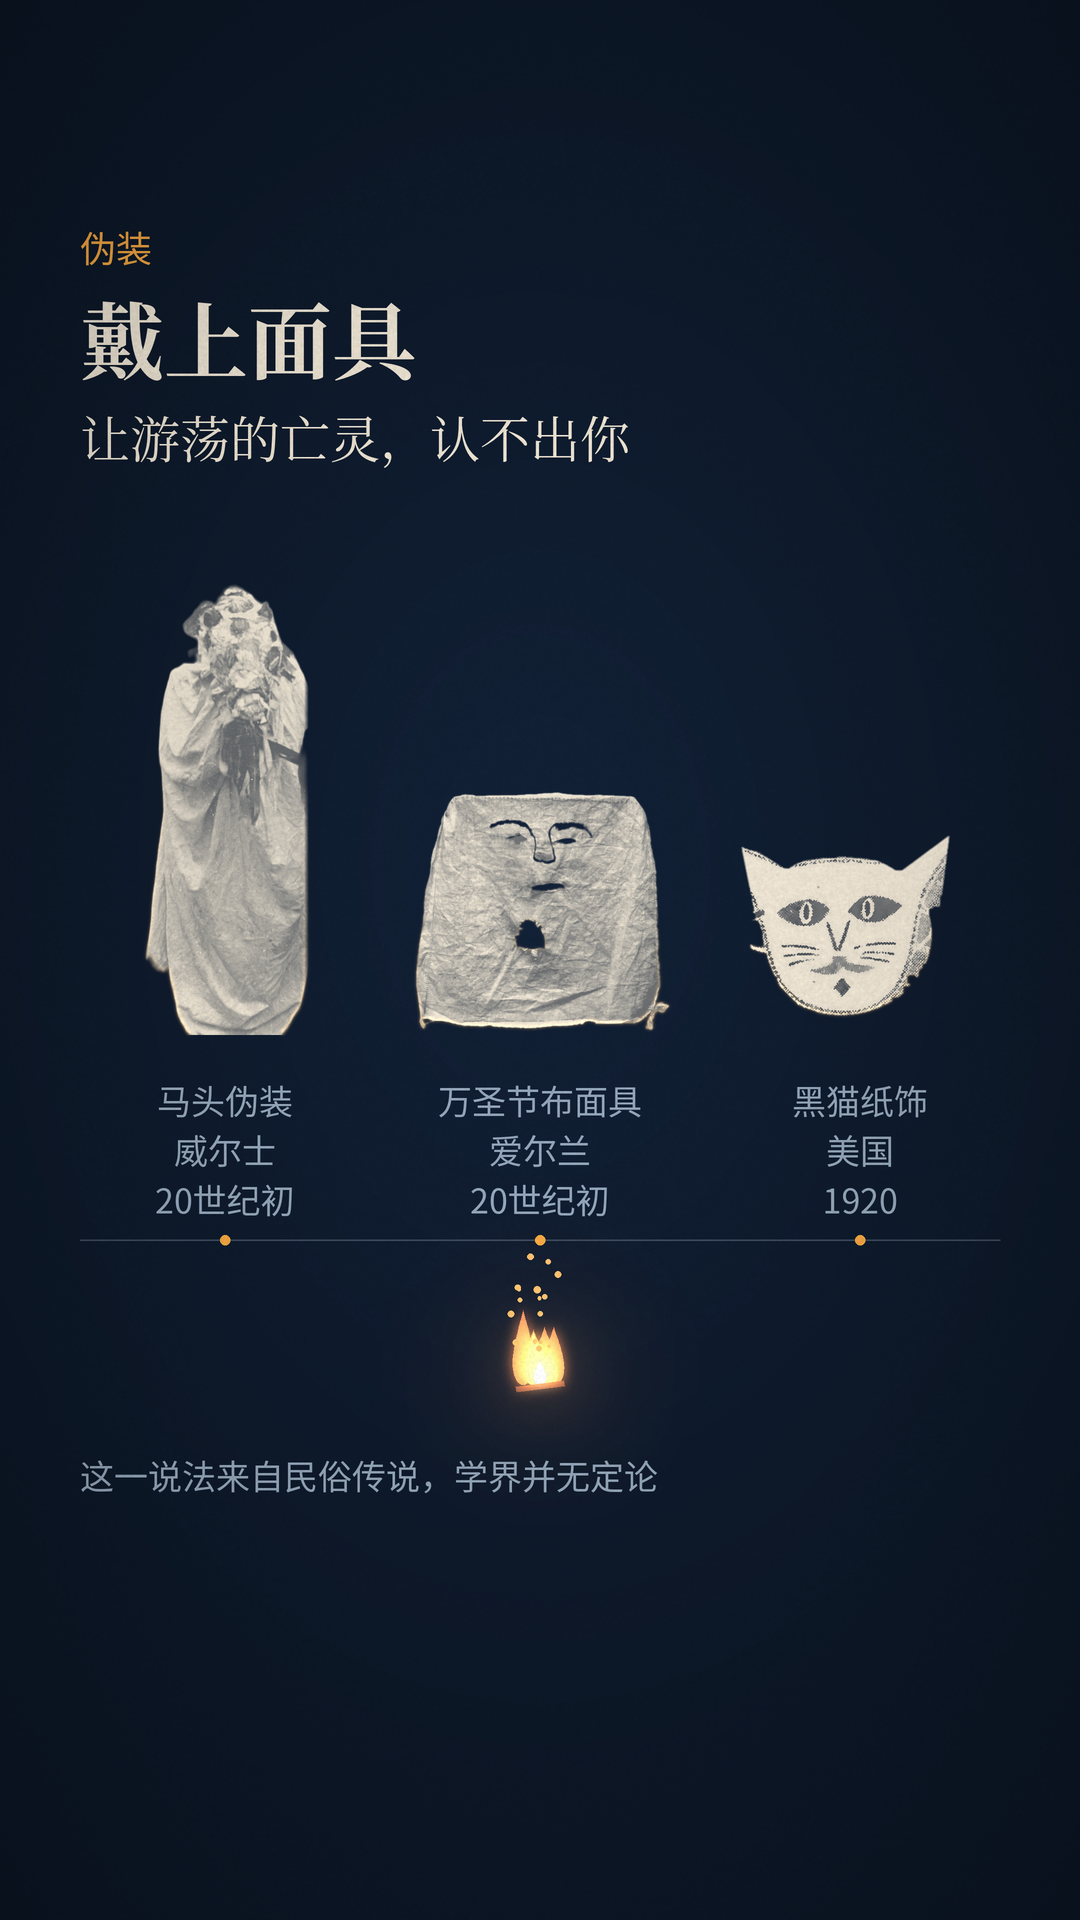
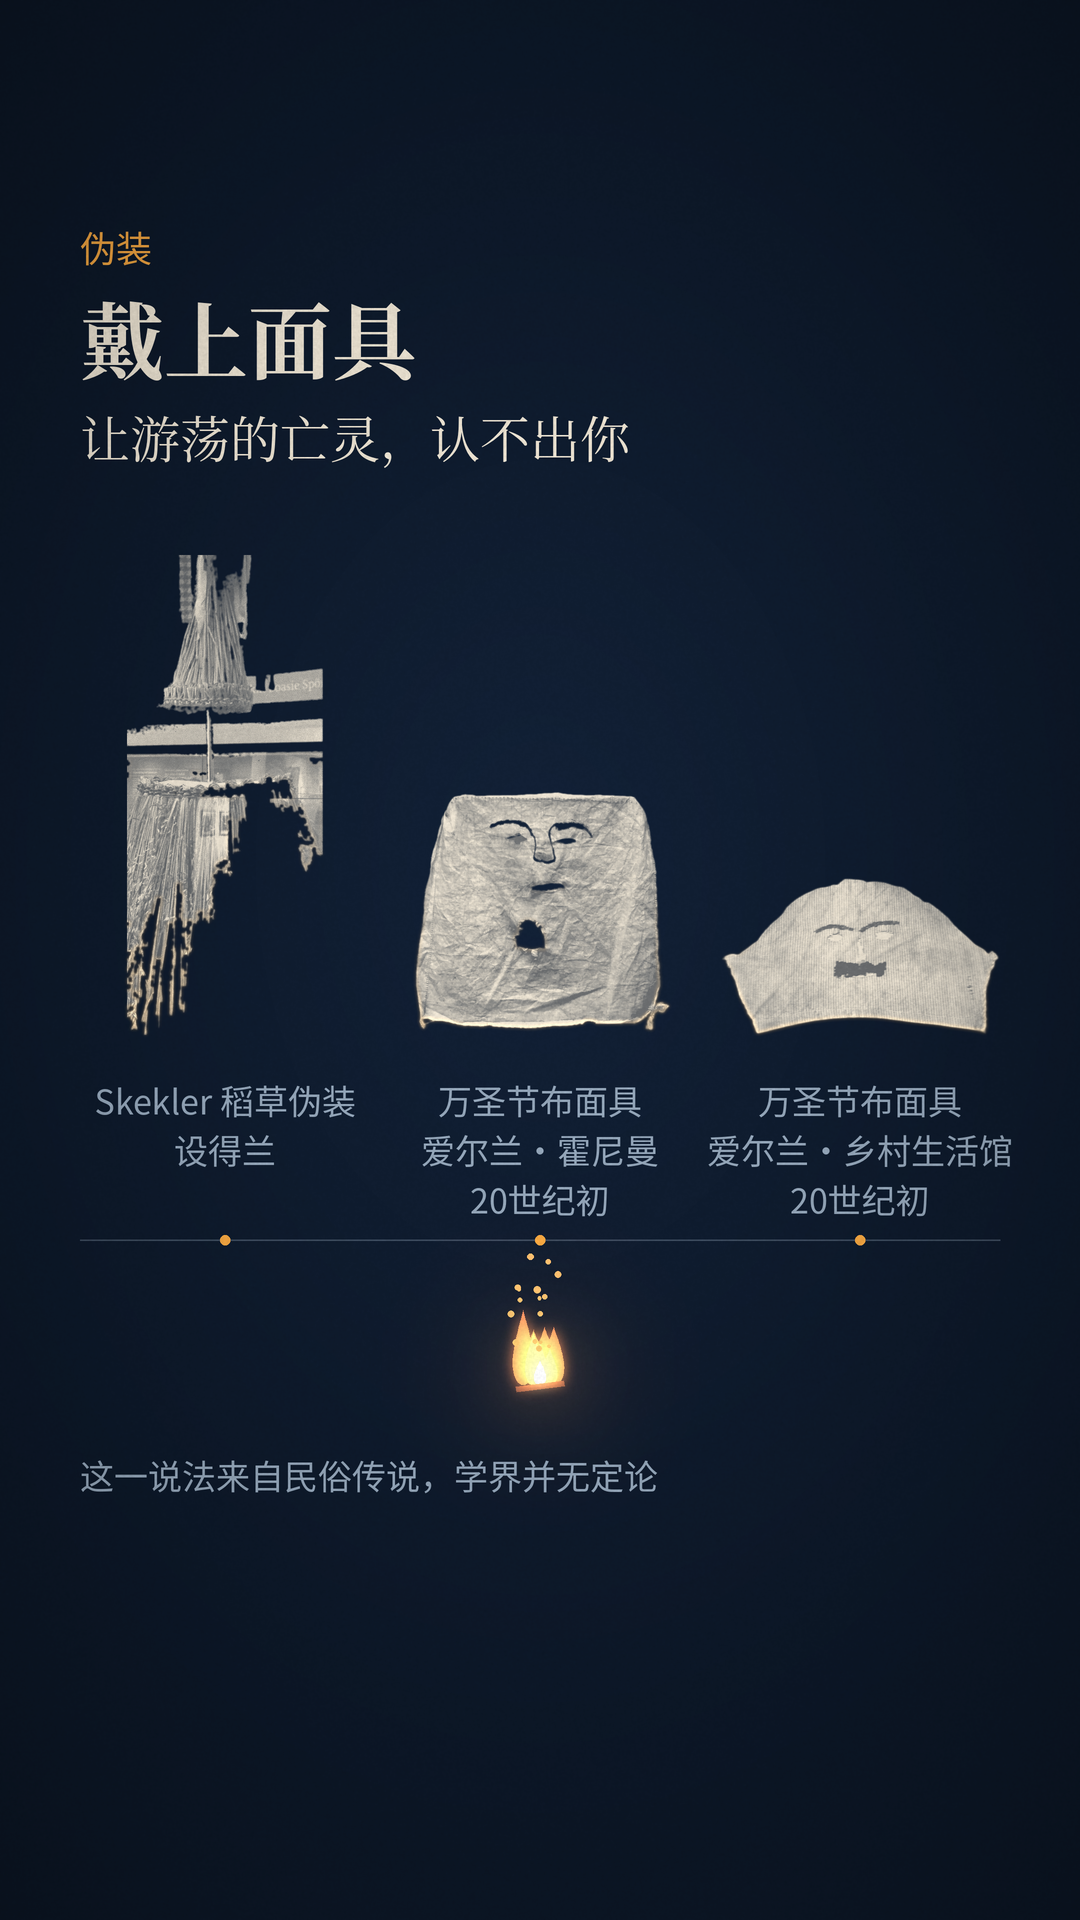
halloween-history shot03 v0.3: on-topic Skekler + two Irish Halloween masks (all BY-SA credited)

Changed region(s): [[0.0917, 0.2812, 0.3361, 0.6562], [0.6417, 0.4375, 0.9472, 0.6562], [0.3972, 0.5938, 0.6111, 0.625]]

diff --git a/projects/halloween-history/render/render_stills.py b/projects/halloween-history/render/render_stills.py
@@ -127,10 +127,10 @@ def mask_cut(fr, name, cx, bottom, width=None, height=None, invert=False, lo=0.5
     light_from(fr, rim_light(a, width=3, strength=0.55), x0, y0, blur=1.5)
 
 
-MASKS03 = [  # (cutout, cx, size kw, invert, tone floor, label)
-    ('mari_lwyd.png', 225, dict(height=470), False, 0.40, '马头伪装\n威尔士\n20世纪初'),
-    ('irish_mask.png', 540, dict(width=270), False, 0.42, '万圣节布面具\n爱尔兰\n20世纪初'),
-    ('dennison_cat.png', 860, dict(width=250), True, 0.30, '黑猫纸饰\n美国\n1920'),
+MASKS03 = [  # (cutout, cx, size kw, invert, tone floor, label) — all Halloween/Samhain-season guising
+    ('skekler.png', 225, dict(height=480), False, 0.38, 'Skekler 稻草伪装\n设得兰'),
+    ('irish_mask.png', 540, dict(width=270), False, 0.42, '万圣节布面具\n爱尔兰·霍尼曼\n20世纪初'),
+    ('irish_mask_country_life.png', 860, dict(width=280), False, 0.42, '万圣节布面具\n爱尔兰·乡村生活馆\n20世纪初'),
 ]
 
 

diff --git a/projects/halloween-history/render/prep_assets.py b/projects/halloween-history/render/prep_assets.py
@@ -67,3 +67,9 @@ rem('turnip_jackolantern_geni.jpg', (0, 0, 547, 505), 'turnip.png')
 
 # 5 Carved pumpkin (CC0), right-hand pumpkin
 rem('carved_pumpkin_teutschmann_cc0.jpg', (1850, 650, 3200, 1950), 'pumpkin.png')
+
+# --- v0.3 shot 03 additions (run after sources are in assets/src/) ---
+# Skekler: color-threshold straw + rembg union; see one-off script history in commit message.
+# Country Life Irish mask: rembg or GrabCut on Traditional-irish-halloween-mask.jpg
+# Outputs: cut/skekler.png, cut/irish_mask_country_life.png
+# Horniman irish_mask.png unchanged from v0.2.

diff --git a/projects/halloween-history/assets/CREDITS.md b/projects/halloween-history/assets/CREDITS.md
@@ -1,27 +1,38 @@
-# 素材来源与授权 · 《万圣节的历史演变》 v0.2
+# 素材来源与授权 · 《万圣节的历史演变》
 
-`assets/src/` 是下载的原图（未改动）；`assets/cut/` 是由 `render/prep_assets.py` 抠出的透明 PNG；
-渲染时（`render/cutouts.py`）再做去色 → 映射到调色板 → 加琥珀火光，所以成片里每张都是**改编作品**。
-只用公有领域 / CC0 / CC BY / CC BY-SA（见第 2 条的说明）。
+`assets/src/` 是下载的原图；`assets/cut/` 是 `render/prep_assets.py` 抠出的透明 PNG。
+渲染时（`render/cutouts.py`）再去色 → 映射到调色板 → 加琥珀火光，成片是**改编作品**。
 
-| # | 用在 | 原图（原文件名 → 本地文件） | 作者 | 授权 | 原图实际内容 | 画面标签 |
+## 镜 03 当前使用（v0.3 · 三件都与万圣夜/萨温季伪装有关）
+
+| # | 位置 | 原图 | 作者 / 日期 | 授权 | 原图实际内容 | 画面标签 |
 |---|---|---|---|---|---|---|
-| 1 | 镜 03 左 | [File:Mari Lwyd at Llangynwyd in the early 20th century.jpg](https://commons.wikimedia.org/wiki/File:Mari_Lwyd_at_Llangynwyd_in_the_early_20th_century.jpg) → `src/mari_lwyd_llangynwyd_evans_1904-1910.jpg` | Frederic Evans（摄，1904–1910） | **Public domain** | 威尔士格拉摩根 Llangynwyd 村的 Mari Lwyd（披白布、顶装饰马头骨的伪装），由 Sianco'r Castell 牵引；20 世纪初 | 马头伪装 / 威尔士 / 20世纪初 |
-| 2 | 镜 03 中 | [File:Irish Halloween Mask at the Horniman Museum.jpg](https://commons.wikimedia.org/wiki/File:Irish_Halloween_Mask_at_the_Horniman_Museum.jpg) → `src/irish_halloween_mask_horniman.jpg` | Ethan Doyle White（摄，2018） | **CC BY-SA 4.0** | 20 世纪初爱尔兰万圣节面具（布面、画眉眼鼻、挖口洞），霍尼曼博物馆藏品 111605 | 万圣节布面具 / 爱尔兰 / 20世纪初 |
-| 3 | 镜 03 右 | [Dennison's Bogie Book (1920), p.36「Dennison stock goods for Hallowe'en」](https://commons.wikimedia.org/wiki/File:Dennison%27s_bogie_book_.._(IA_dennisonsbogiebo00denn).pdf)（[Internet Archive](https://archive.org/details/dennisonsbogiebo00denn)）→ `src/dennison_bogie_book_1920_p36_300dpi.jpg`（PDF 第 36 页按 300 dpi 渲染） | Dennison Manufacturing Co.（马萨诸塞州 Framingham，1920） | **Public domain**（1920 年美国出版） | 商品目录页上的黑猫脸纸饰；页面文字未写明它是面具 → 不叫面具 | 黑猫纸饰 / 美国 / 1920 |
-| 4 | 镜 06 左 | [File:TurnipJackolantern.jpg](https://commons.wikimedia.org/wiki/File:TurnipJackolantern.jpg) → `src/turnip_jackolantern_geni.jpg` | Geni（英文维基百科用户，2006） | **CC BY 2.5** | 现代家庭用芜菁刻的灯（地点未注明） | 芜菁灯 / 爱尔兰/苏格兰传统（标签指做法的来源，不指照片地点） |
-| 5 | 镜 06 右 | [File:Carved pumpkin as face (Unsplash).jpg](https://commons.wikimedia.org/wiki/File:Carved_pumpkin_as_face_(Unsplash).jpg) → `src/carved_pumpkin_teutschmann_cc0.jpg`（取右侧那只） | Beth Teutschmann（摄，2016-10-26，美国威斯康星州 Eau Claire） | **CC0** | 现代刻脸南瓜灯，内部点灯 | 南瓜灯 / 美国 |
+| 1 | 左 | [File:Skekler costume.jpg](https://commons.wikimedia.org/wiki/File:Skekler_costume.jpg) → `src/skekler_shetland_museum.jpg` | Northerner（摄，2017-09-30） | **CC BY-SA 4.0** | 设得兰博物馆展出的 Skekler（惊吓人）稻草伪装；设得兰传统在万圣夜前后与新年前后使用 | Skekler 稻草伪装 / 设得兰 |
+| 2 | 中 | [File:Irish Halloween Mask at the Horniman Museum.jpg](https://commons.wikimedia.org/wiki/File:Irish_Halloween_Mask_at_the_Horniman_Museum.jpg) → `src/irish_halloween_mask_horniman.jpg` | Ethan Doyle White（摄，2018） | **CC BY-SA 4.0** | 20 世纪初爱尔兰万圣节布面具，霍尼曼博物馆藏品 111605 | 万圣节布面具 / 爱尔兰·霍尼曼 / 20世纪初 |
+| 3 | 右 | [File:Traditional-irish-halloween-mask.jpg](https://commons.wikimedia.org/wiki/File:Traditional-irish-halloween-mask.jpg) → `src/traditional_irish_halloween_mask_country_life.jpg` | rannṗáirtí anaiṫnid（摄，约 2009） | **CC BY-SA 3.0** | 20 世纪初爱尔兰传统万圣节面具，摄于爱尔兰乡村生活博物馆（Museum of Country Life） | 万圣节布面具 / 爱尔兰·乡村生活馆 / 20世纪初 |
 
-## 改动说明（所有素材通用）
-裁切 → 抠图（rembg u2net；#2 用 OpenCV GrabCut；#3 用暗部阈值 + 椭圆裁切）→ 去色 → 按亮度映射到
-`paper_cream`/`night_ink`（#3 反相：黑猫变纸色）或映射到琥珀色阶（#5）/中性双色（#4）→ 刻孔高光放进加光层发光 → 镜 03 底边加琥珀边缘光。
+### ⚠ BY-SA（相同方式共享）
+镜 03 三张现用素材**全部是 CC BY-SA**（4.0 / 4.0 / 3.0）。可商用，但使用它们改编的那段画面（镜 03）须以对应的 CC BY-SA 提供，并署名。
+本仓库在 Wikimedia Commons 与博物馆开源库检索后，**未找到**公有领域 / CC0 / 纯 CC BY 的爱尔兰或苏格兰「假脸」面具旧照；设得兰 Skekler 也只有 BY-SA 展品照。
 
-## 发布时要写的署名（贴到视频简介 / 片尾小字）
-> 图片素材：Mari Lwyd 摄影 Frederic Evans（公有领域）；爱尔兰万圣节面具 摄影 Ethan Doyle White，CC BY-SA 4.0，霍尼曼博物馆藏；
-> Dennison's Bogie Book（1920，公有领域）；芜菁灯 摄影 Geni，CC BY 2.5；南瓜灯 摄影 Beth Teutschmann（CC0）。均来自 Wikimedia Commons，经去色、抠图、调色改编。
+### 发布署名（可贴简介 / 片尾）
+> 镜 03 面具素材：Skekler 稻草伪装 摄影 Northerner，CC BY-SA 4.0，设得兰博物馆；爱尔兰万圣节面具 摄影 Ethan Doyle White，CC BY-SA 4.0，霍尼曼博物馆；爱尔兰传统万圣节面具 摄影 rannṗáirtí anaiṫnid，CC BY-SA 3.0，乡村生活博物馆。均来自 Wikimedia Commons，经去色、抠图、调色改编。
 
-## ⚠ 需要你决定的一条
-- **#2 是 CC BY-SA 4.0（相同方式共享）**：可商用，但改编后的那部分画面（镜 03 的面具画面）按条款要以 CC BY-SA 4.0 提供，并署名。
-  不想要这个约束的话，可以换掉：目前在 Commons 上没找到 PD/CC0/CC BY 的苏格兰/爱尔兰「假脸」面具照片。
-- 排除过的：Smithsonian NMAH 万圣节面具（CC0 元数据但无图）；Haudenosaunee False Face 面具（宗教圣物，不用）；
-  Ben Cooper 面具照片（CC BY-SA 3.0 且面具本身是受版权保护的商业设计）。
+### 检索过但未采用（说明）
+- Mari Lwyd（威尔士马头伪装）：公有领域，但是圣诞—新年习俗，不是万圣夜/萨温季 → v0.2 用过，v0.3 撤下。
+- Dennison's Bogie Book（1920）黑猫纸饰：公有领域，目录未写明是面具 → v0.2 用过，v0.3 撤下。
+- Thanksgiving Maskers（国会图书馆，约 1910–1915）：无已知发表限制，有清晰面具，但是**感恩节**面具游行，不是万圣节。
+- Souling on Halloween（1882，公有领域）：英格兰讨灵魂糕插图，几乎看不出面具。
+- Burns《Halloween》插画（公有领域）：占卜游戏场景，不是伪装。
+- Baltasound grölicks（2015，CC BY-SA 2.0）：现代设得兰万圣夜伪装，面部被当代化妆遮住，不如博物馆 Skekler 清楚。
+- 美国早期万圣夜戴面具儿童：在 LoC/Commons 未找到 1929 年前、授权明确、且能清楚看到面具的单独照片。
+
+## 镜 06（未改，仍用）
+
+| # | 用在 | 原图 | 作者 | 授权 |
+|---|---|---|---|---|
+| 4 | 芜菁灯 | [File:TurnipJackolantern.jpg](https://commons.wikimedia.org/wiki/File:TurnipJackolantern.jpg) | Geni，2006 | **CC BY 2.5** |
+| 5 | 南瓜灯 | [File:Carved pumpkin as face (Unsplash).jpg](https://commons.wikimedia.org/wiki/File:Carved_pumpkin_as_face_(Unsplash).jpg) | Beth Teutschmann，2016，美国 Eau Claire | **CC0** |
+
+## 改动说明（通用）
+裁切 → 抠图 → 去色 → 按亮度映射到 `paper_cream`/`night_ink` → 刻孔/边缘琥珀光进加光层。

diff --git a/projects/halloween-history/storyboard.md b/projects/halloween-history/storyboard.md
@@ -8,7 +8,7 @@
 |---|---|---|---|
 | 01 | 6 s | 0–143 | 10月31日 / 一个夜晚，怎么走到了你身边？ / 万圣节的历史演变 |
 | 02 | 11 s | 144–407 | 爱尔兰·苏格兰 / 萨温节 Samhain / 冬天开始的那一夜 / 人们点起山顶的篝火，相信这一夜生者与亡者之间的那层纱，最薄 |
-| 03 | 8 s | 408–599 | 伪装 / 戴上面具 / 让游荡的亡灵，认不出你 / 马头伪装·威尔士·20世纪初 / 万圣节布面具·爱尔兰·20世纪初 / 黑猫纸饰·美国·1920 / 这一说法来自民俗传说，学界并无定论 |
+| 03 | 8 s | 408–599 | 伪装 / 戴上面具 / 让游荡的亡灵，认不出你 / Skekler 稻草伪装·设得兰 / 万圣节布面具·爱尔兰·霍尼曼·20世纪初 / 万圣节布面具·爱尔兰·乡村生活馆·20世纪初 / 这一说法来自民俗传说，学界并无定论 |
 | 04 | 10 s | 600–839 | 公元9世纪 / 教会定下11月1日 / “万圣节”的前一晚，就是今天的万圣夜 / All Hallows' Eve → Hallowe'en → Halloween / 835年起… |
 | 05 | 12 s | 840–1127 | 1845–1852·爱尔兰大饥荒 / 一百万人离开 / 他们把万圣节，也带上了船 / 约100万人死于饥荒，另有100多万人移民，多数去了北美 / 每个光点≈1000人 |
 | 06 | 9 s | 1128–1343 | 灯，换了 / 芜菁 → 南瓜 / 在家乡，灯是用芜菁刻的，到了美洲，换成了更大的南瓜 / 1837年… |
@@ -33,8 +33,8 @@
 - 出：f380–407 镜头下摇，篝火最亮的一堆（Tlachtga）留在画面中心，作为 03 底部的火源。
 
 ### 03 · 面具（408–599，8 s）
-- 画面：3 个**真实照片剪影**（来源见 `assets/CREDITS.md`），底边对齐 y=1035，纸色调（`#EDE4D3`，保留内部明暗）。左：马头伪装 Mari Lwyd（威尔士，约 1904–1910，高 470）；中：爱尔兰万圣节布面具（20 世纪初，宽 270）；右：Dennison 黑猫纸饰（1920 商品目录，宽 250，反相为纸色）。底边有琥珀色边缘光（宽 3，强度 0.55）。时间轴线 y=1240，3 个琥珀节点 r=5；篝火在 (540, 1385)，尺寸 2.0。
-- 文字：标题 84px；副句 50px y=400；标签 34px 三行 y=1075（行距 10）；注释 34px y=1450。
+- 画面：3 个**真实照片剪影**（来源见 `assets/CREDITS.md`），底边对齐 y=1035，纸色调。左：设得兰 Skekler 稻草伪装（博物馆展品照，高 480）；中：爱尔兰万圣节布面具（霍尼曼博物馆，宽 270，**CC BY-SA 4.0**）；右：爱尔兰万圣节布面具（乡村生活博物馆，宽 280，**CC BY-SA 3.0**）。三件都与万圣夜/萨温季伪装有关。底边琥珀边缘光；时间轴线 y=1240；篝火 (540, 1385) 尺寸 2.0。
+- 文字：标题 84px；副句 50px y=400；标签 34px y=1075；注释 34px y=1450。
 - 动作：剪影从左到右每 12 帧出现一个，ease-out；篝火持续闪烁，边缘光跟着火光同步闪 ±10%。
 - 入：02 的那堆火变成本镜底部的篝火（位置连续）。
 - 出：硬切到 04。
@@ -91,6 +91,7 @@
 
 ---
 ## 修订记录
+- v0.3（2026-10-19）：只改镜 03。撤下 Mari Lwyd（威尔士冬季）与 Dennison 黑猫纸饰；换成设得兰 Skekler + 霍尼曼爱尔兰面具 + 乡村生活博物馆爱尔兰面具。三件均 BY-SA，详见 CREDITS。
 - v0.2（2026-10-18）：只改 01/03/04/06/08（另：07 的「出」因 08 去掉地图而同步改了一行，07 画面不变）。
   01 灯光增加到约 70 个城市枢纽加乡镇光点；03 面具改用真实照片剪影，标签照实写；04 加羊皮纸、手稿和烛光；
   06 芜菁灯和南瓜灯改用真实照片；08 去掉地图，改成楼群窗灯。素材授权见 `assets/CREDITS.md`。
